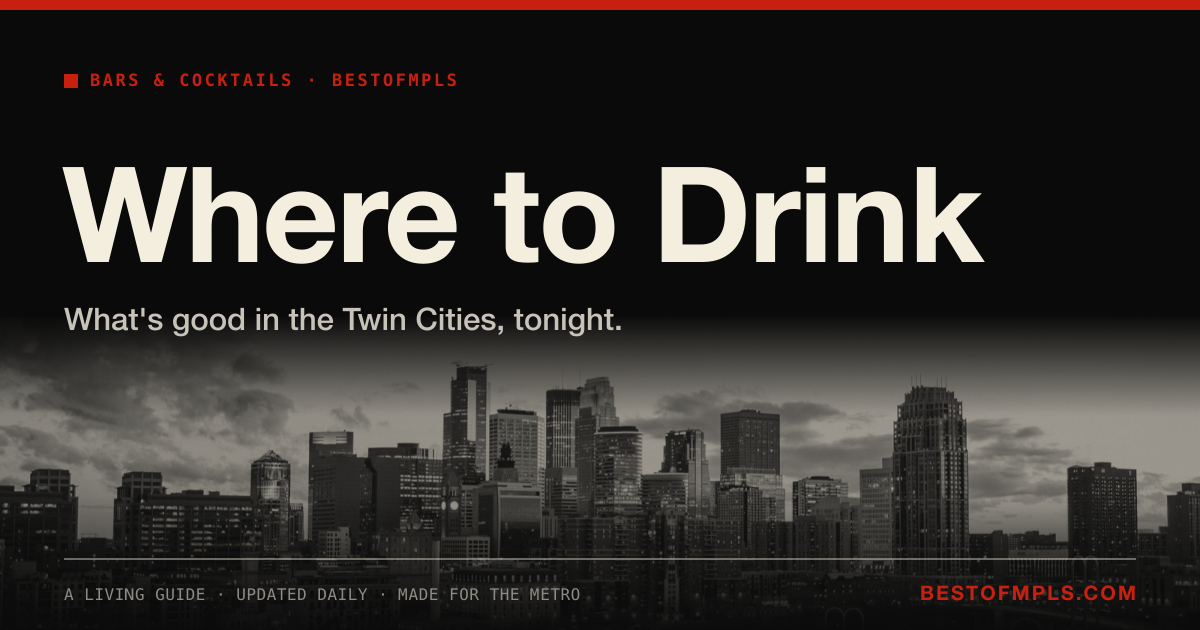
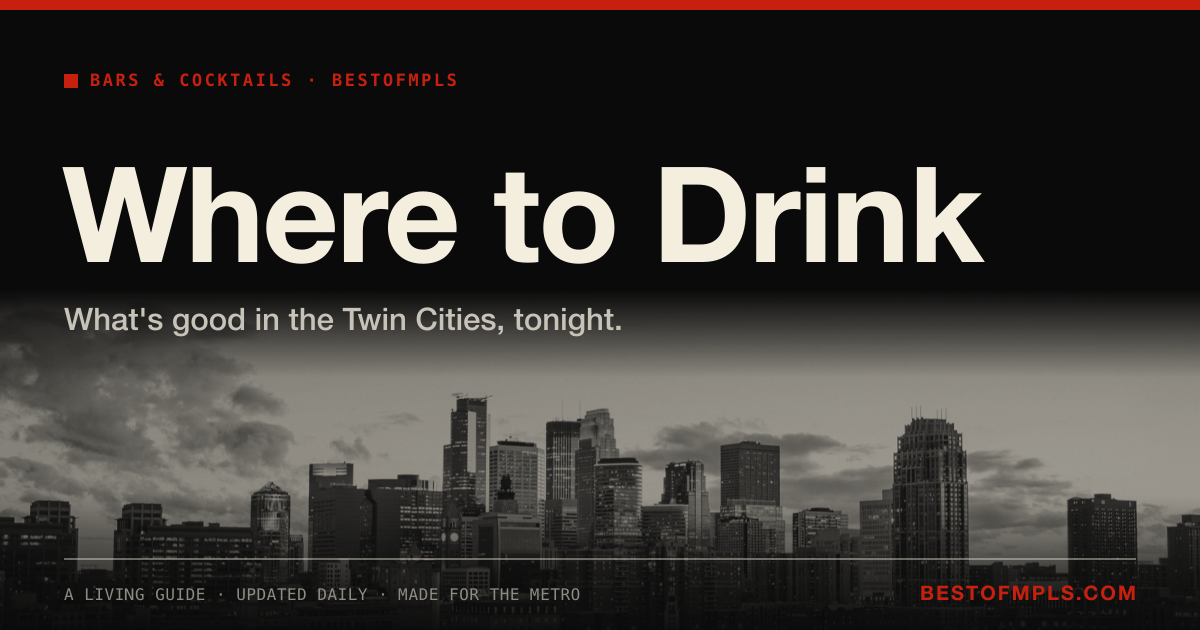
Reframe duotone skyline to show building tops + Tonight high/low line
- Show more of the city: taller footer band (object-position higher) and OG
  cards repositioned/remasked so the building tops are visible, not cropped.
  (Confirmed the source is the real photo — 1600x1066, real-photo aspect, no AI
  tags; duotone is just a color filter on it.)
- Tonight page: add a tonight + tomorrow outlook line (low tonight, tomorrow
  high/low + conditions), parsed from the NWS periods in build-rightnow.js.
- Cache v=63; refresh committed OG fallbacks.

Changed region(s): [[0.0, 0.4825, 1.0, 0.9048]]

diff --git a/scripts/build.js b/scripts/build.js
@@ -870,7 +870,7 @@ ${GSC_VERIFICATION ? `<meta name="google-site-verification" content="${esc(GSC_V
 <link rel="preconnect" href="https://fonts.googleapis.com">
 <link rel="preconnect" href="https://fonts.gstatic.com" crossorigin>
 <link rel="stylesheet" href="https://fonts.googleapis.com/css2?family=Schibsted+Grotesk:wght@500;600;700;800&family=IBM+Plex+Mono:wght@500;600;700&family=Source+Sans+3:wght@400;600&display=swap">
-<link rel="stylesheet" href="/style.css?v=62">
+<link rel="stylesheet" href="/style.css?v=63">
 <script>
 // Set color mode before paint to avoid flash. Reads localStorage first,
 // falls back to light mode (the new editorial default). mode-ready class
@@ -2729,7 +2729,7 @@ function renderAdminPicks() {
 <meta name="viewport" content="width=device-width, initial-scale=1">
 <meta name="robots" content="noindex, nofollow">
 <title>${esc(title)}</title>
-<link rel="stylesheet" href="/style.css?v=62">
+<link rel="stylesheet" href="/style.css?v=63">
 <style>
   body { background: var(--paper); }
   .admin-wrap { max-width: 960px; margin: 0 auto; padding: 32px var(--gutter) 96px; }
@@ -4740,6 +4740,11 @@ function renderTonight() {
            <span class="tonight-hero-temp"><span class="tonight-hero-temp-num" data-live-temp>${r.weather.temp_now}</span><span class="tonight-hero-temp-unit">°F</span></span>
            <span class="tonight-hero-condition" data-live-condition>${esc(r.weather.condition)}</span>
          </div>
+         ${r.weather.forecast && (r.weather.forecast.tonight_low != null || r.weather.forecast.tomorrow_high != null) ? `
+         <div class="tonight-hero-forecast">
+           ${r.weather.forecast.tonight_low != null ? `<span class="tonight-fc"><span class="tonight-fc-label">Tonight</span> <span class="tonight-fc-val">${r.weather.forecast.tonight_low}°${r.weather.forecast.tonight_cond ? ` · ${esc(r.weather.forecast.tonight_cond)}` : ''}</span></span>` : ''}
+           ${r.weather.forecast.tomorrow_high != null ? `<span class="tonight-fc"><span class="tonight-fc-label">${esc(r.weather.forecast.tomorrow_name)}</span> <span class="tonight-fc-val">${r.weather.forecast.tomorrow_high}°${r.weather.forecast.tomorrow_low != null ? ` / ${r.weather.forecast.tomorrow_low}°` : ''}${r.weather.forecast.tomorrow_cond ? ` · ${esc(r.weather.forecast.tomorrow_cond)}` : ''}</span></span>` : ''}
+         </div>` : ''}
          <div class="tonight-hero-meta">
            <div class="tonight-meta-item"><span class="tonight-meta-label">Sunset</span><span class="tonight-meta-val">${esc(r.sun.set)}</span></div>
            <div class="tonight-meta-item"><span class="tonight-meta-label">Sunrise tomorrow</span><span class="tonight-meta-val">${esc(r.sun.rise)}</span></div>

diff --git a/src/style.css b/src/style.css
@@ -6542,15 +6542,21 @@ html[data-mode="dark"] .entry-reserve {
    Cream highlights / near-black shadows on the always-dark footer, so the lit
    twilight skyline glows and the shadows dissolve into the slab. One treatment
    reads correctly in both light and dark page modes. */
-.footer-skyline { position: relative; width: 100%; height: clamp(110px, 15vw, 190px); overflow: hidden; }
+.footer-skyline { position: relative; width: 100%; height: clamp(170px, 22vw, 300px); overflow: hidden; }
 .footer-skyline .svg-defs { position: absolute; width: 0; height: 0; }
 .footer-skyline img {
-  width: 100%; height: 100%; object-fit: cover; object-position: 50% 42%;
-  filter: url(#duotone-bom); opacity: 0.5;
-  -webkit-mask-image: linear-gradient(to bottom, transparent, #000 34%, #000 72%, transparent);
-  mask-image: linear-gradient(to bottom, transparent, #000 34%, #000 72%, transparent);
+  width: 100%; height: 100%; object-fit: cover; object-position: 50% 32%;
+  filter: url(#duotone-bom); opacity: 0.55;
+  -webkit-mask-image: linear-gradient(to bottom, transparent, #000 24%, #000 82%, transparent);
+  mask-image: linear-gradient(to bottom, transparent, #000 24%, #000 82%, transparent);
 }
 .site-footer { padding-top: 0; }
+
+/* Tonight page — tonight + tomorrow outlook line under the marquee */
+.tonight-hero-forecast { display: flex; flex-wrap: wrap; gap: var(--s3) var(--s5); margin-top: var(--s4); }
+.tonight-fc { font-family: var(--font-body); font-size: 15px; color: var(--ink-soft); }
+.tonight-fc-label { font-family: var(--font-label); font-weight: 700; font-size: 11px; letter-spacing: 0.1em; text-transform: uppercase; color: var(--clay); margin-right: 6px; }
+.tonight-fc-val { color: var(--ink); }
 
 /* Live pulse — the one expressive motion. A clay dot that breathes next to
    live data, so the site's "alive" quality is felt. */

diff --git a/scripts/build-rightnow.js b/scripts/build-rightnow.js
@@ -215,6 +215,23 @@ function classifyWeather(weather) {
   else if (is_snowing) { mode = 'snow';   summary = `${Math.round(tempNow)}°F · snowing`; }
   else if (is_rainy)   { mode = 'rain';   summary = `${Math.round(tempNow)}°F · rain in the forecast`; }
 
+  // Tonight + tomorrow outlook. periods[] is NWS, ordered from now: the first
+  // night period is the upcoming overnight low, the next daytime period is
+  // tomorrow's high, the night after that is tomorrow's low.
+  const firstNightIdx = periods.findIndex(p => !p.isDaytime);
+  const tonightP = firstNightIdx >= 0 ? periods[firstNightIdx] : null;
+  const tomorrowDay = (firstNightIdx >= 0 ? periods.slice(firstNightIdx + 1) : periods).find(p => p.isDaytime) || null;
+  const tomorrowNight = tomorrowDay ? periods.slice(periods.indexOf(tomorrowDay) + 1).find(p => !p.isDaytime) : null;
+
+  const forecast = {
+    tonight_low: tonightP ? Math.round(tonightP.temperature) : null,
+    tonight_cond: tonightP ? describeNws(tonightP.shortForecast) : null,
+    tomorrow_name: tomorrowDay ? tomorrowDay.name : 'Tomorrow',
+    tomorrow_high: tomorrowDay ? Math.round(tomorrowDay.temperature) : null,
+    tomorrow_low: tomorrowNight ? Math.round(tomorrowNight.temperature) : null,
+    tomorrow_cond: tomorrowDay ? describeNws(tomorrowDay.shortForecast) : null,
+  };
+
   return {
     temp_now: Math.round(tempNow),
     temp_max: tempMax != null ? Math.round(tempMax) : null,
@@ -222,6 +239,7 @@ function classifyWeather(weather) {
     condition,
     is_patio, is_brutal, is_snowing, is_rainy,
     mood: mode, summary,
+    forecast,
     source: 'nws'
   };
 }

diff --git a/scripts/build-og.js b/scripts/build-og.js
@@ -54,8 +54,8 @@ function chrome(sky) {
       </feComponentTransfer>
     </filter>
     <linearGradient id="bandmask" x1="0" y1="0" x2="0" y2="1">
-      <stop offset="0" stop-color="#000"/><stop offset="0.50" stop-color="#000"/>
-      <stop offset="0.66" stop-color="#fff"/><stop offset="1" stop-color="#fff"/>
+      <stop offset="0" stop-color="#000"/><stop offset="0.46" stop-color="#000"/>
+      <stop offset="0.60" stop-color="#fff"/><stop offset="1" stop-color="#fff"/>
     </linearGradient>
     <mask id="skymask"><rect x="0" y="0" width="1200" height="630" fill="url(#bandmask)"/></mask>
     <linearGradient id="scrim" x1="0" y1="0" x2="0" y2="1">
@@ -65,7 +65,7 @@ function chrome(sky) {
   </defs>`,
     back: `<rect x="0" y="0" width="1200" height="630" fill="${CARD}"/>
   <g mask="url(#skymask)" opacity="0.66">
-    <image xlink:href="${sky}" x="0" y="118" width="1200" height="801" filter="url(#duotone-bom)" preserveAspectRatio="none"/>
+    <image xlink:href="${sky}" x="0" y="150" width="1200" height="800" filter="url(#duotone-bom)" preserveAspectRatio="none"/>
   </g>
   <rect x="0" y="496" width="1200" height="134" fill="url(#scrim)"/>
   <rect x="0" y="0" width="1200" height="10" fill="${CLAY}"/>`,
